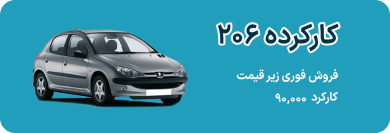
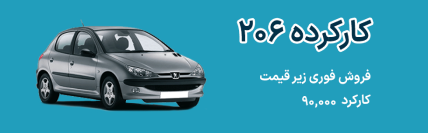
fixed home page jump

diff --git a/src/view/home/component/HomeAdsSwiper2.tsx b/src/view/home/component/HomeAdsSwiper2.tsx
@@ -1,8 +1,8 @@
+import React from "react";
 import {CustomSwiper} from "components";
-import {TDataCustomSwiper} from "components/customSwiper/CustomSwiper";
 import {Autoplay, Pagination} from "swiper";
-import img from "assets/images/banner.png";
-import "swiper/css/pagination";
+import img from "assets/images/banner2.png";
+import {TDataCustomSwiper} from "components/customSwiper/CustomSwiper";
 
 const data: TDataCustomSwiper = [
   {
@@ -23,9 +23,9 @@ const data: TDataCustomSwiper = [
   },
 ];
 
-function HomeAdsSlider() {
+function HomeAdsSwiper2() {
   return (
-    <div className="px-screenSpace mb-5">
+    <div className="mb-5 mt-10">
       <CustomSwiper
         modules={[Pagination, Autoplay]}
         slidesPerView={1}
@@ -43,13 +43,9 @@ function HomeAdsSlider() {
         data={data}
         renderItem={(item) => {
           return (
-            <div className="relative pb-[50%]">
+            <div className="relative pb-[34%]">
               <div className="absolute w-full h-full">
-                <img
-                  src={item.image}
-                  alt={item.title}
-                  className="w-full h-full object-cover object-center rounded-[10px]"
-                />
+                <img src={item.image} alt={item.title} className="w-full h-full object-cover object-center" />
               </div>
             </div>
           );
@@ -59,4 +55,4 @@ function HomeAdsSlider() {
   );
 }
 
-export default HomeAdsSlider;
+export default HomeAdsSwiper2;

diff --git a/src/view/home/component/HomeAdsSwiper.tsx b/src/view/home/component/HomeAdsSwiper.tsx
@@ -1,8 +1,8 @@
-import React from "react";
 import {CustomSwiper} from "components";
-import {Autoplay, Pagination} from "swiper";
-import img from "assets/images/banner2.png";
 import {TDataCustomSwiper} from "components/customSwiper/CustomSwiper";
+import {Autoplay, Pagination} from "swiper";
+import img from "assets/images/banner.png";
+import "swiper/css/pagination";
 
 const data: TDataCustomSwiper = [
   {
@@ -23,9 +23,9 @@ const data: TDataCustomSwiper = [
   },
 ];
 
-function HomeAdsSlider2() {
+function HomeAdsSwiper() {
   return (
-    <div className="px-screenSpace mb-5 mt-10">
+    <div className="mb-5">
       <CustomSwiper
         modules={[Pagination, Autoplay]}
         slidesPerView={1}
@@ -43,13 +43,9 @@ function HomeAdsSlider2() {
         data={data}
         renderItem={(item) => {
           return (
-            <div className="relative pb-[34%]">
+            <div className="relative pb-[50%]">
               <div className="absolute w-full h-full">
-                <img
-                  src={item.image}
-                  alt={item.title}
-                  className="w-full h-full object-cover object-center rounded-[15px]"
-                />
+                <img src={item.image} alt={item.title} className="w-full h-full object-cover object-center" />
               </div>
             </div>
           );
@@ -59,4 +55,4 @@ function HomeAdsSlider2() {
   );
 }
 
-export default HomeAdsSlider2;
+export default HomeAdsSwiper;

diff --git a/src/view/home/component/HomeOtherCategory.tsx b/src/view/home/component/HomeOtherCategory.tsx
@@ -5,6 +5,7 @@ import Link from "next/link";
 import classNames from "classnames";
 import {Autoplay, Pagination} from "swiper";
 import "swiper/css/pagination";
+import {useEffect, useState} from "react";
 import styles from "view/home/home.module.scss";
 
 const data: TDataCustomSwiper = [
@@ -39,11 +40,18 @@ const data: TDataCustomSwiper = [
 ];
 
 function HomeOtherCategory() {
+  const [slidesPreView, setSlidePerView] = useState(1);
+
+  useEffect(() => {
+    setSlidePerView(3);
+  }, []);
+
   return (
     <>
       <CustomSwiper
         slidesPerGroup={3}
-        slidesPerView={3}
+        // slidesPerView={3}
+        slidesPerView={slidesPreView}
         spaceBetween={0}
         modules={[Pagination, Autoplay]}
         pagination={{
@@ -64,7 +72,10 @@ function HomeOtherCategory() {
           });
           return (
             <div className="pl-[5px] pr-[15px]">
-              <div className={styles.home_other_category_box}>
+              <div
+                className={styles.home_other_category_box}
+                style={{paddingBottom: slidesPreView === 1 ? "29.42%%" : "100%"}}
+              >
                 <Link href="/" className="absolute flex flex-col items-center justify-center w-full h-full">
                   <Icon className={iconClassName} />
                   <div className="mt-2">{item.title}</div>

diff --git a/src/view/home/index.tsx b/src/view/home/index.tsx
@@ -3,9 +3,9 @@ import HomeSearch from "view/home/component/HomeSearch";
 import HomeCategory from "view/home/component/HomeCategory";
 import HomeBest from "view/home/component/HomeBest";
 import HomeGradient from "view/home/component/HomeGradient";
-import HomeAdsSlider from "view/home/component/HomeAdsSlider";
+import HomeAdsSwiper from "view/home/component/HomeAdsSwiper";
 import HomeBottomNavigation from "view/home/component/HomeBottomNavigation";
-import HomeAdsSlider2 from "view/home/component/HomeAdsSlider2";
+import HomeAdsSwiper2 from "view/home/component/HomeAdsSwiper2";
 import HomeDeliBlog from "view/home/component/HomeDeliBlog";
 import HomeAdsSell from "view/home/component/HomeAdsSell";
 import HomeCoin from "view/home/component/HomeCoin";
@@ -16,11 +16,11 @@ function Home() {
       <HomeHeader />
       <HomeSearch />
       <HomeCategory />
-      <HomeAdsSlider />
+      <HomeAdsSwiper />
       <HomeBest />
       <HomeDeliBlog />
       <HomeAdsSell />
-      <HomeAdsSlider2 />
+      <HomeAdsSwiper2 />
       <HomeCoin />
       <div className="w-1 h-32" />
       <HomeBottomNavigation />

diff --git a/src/view/home/home.module.scss b/src/view/home/home.module.scss
@@ -20,7 +20,7 @@
 .home_other_category_box {
   position: relative;
   width: 100%;
-  padding-bottom: 100%;
+  //padding-bottom: 100%;
   background-image: linear-gradient(310.59deg, #f2f3f6 3.8%, #e5e6ec 119.99%);
   box-shadow: -4px -4px 30px #ffffff, 3px 3px 20px rgba(36, 65, 93, 0.302);
   border-radius: 15px;
